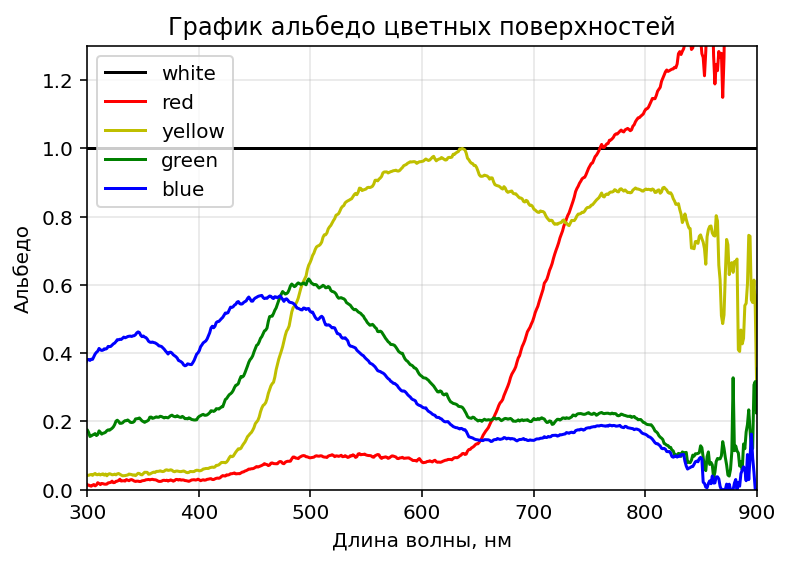
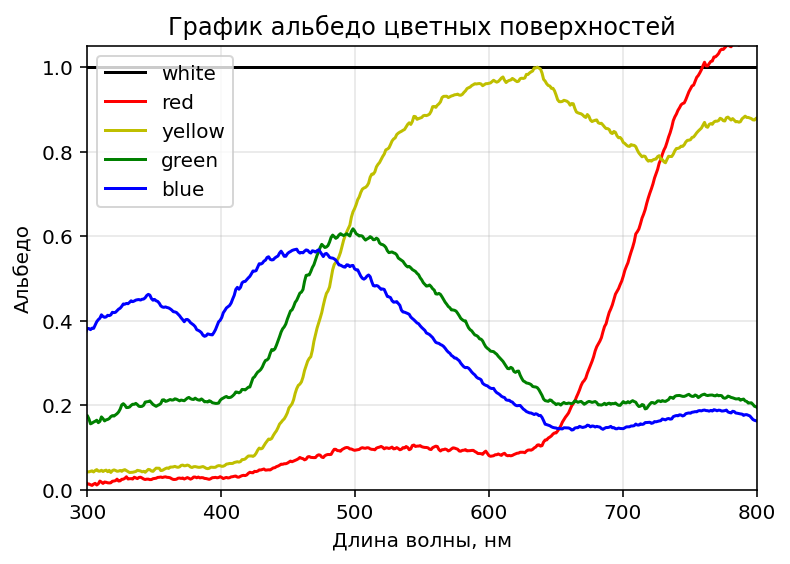
graph changed

diff --git a/light/albedo.py b/light/albedo.py
@@ -35,8 +35,8 @@ for i in range (len(data)):
     alb_blue[i] = data_blue[i]/data_white[i]
 
 plt.figure()
-plt.xlim (300, 900)
-plt.ylim (0,1.3)
+plt.xlim (300, 800)
+plt.ylim (0,1.05)
 
 plt.title("График альбедо цветных поверхностей")
 plt.xlabel("Длина волны, нм")
